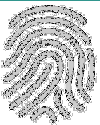
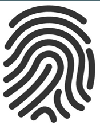
thumb bit reading error resolved

diff --git a/steg.java b/steg.java
@@ -75,13 +75,13 @@ public class steg {
                 System.out.println("Region: " + region + ", Segment: " + seg);
                 System.out.println("xs: " + xs + ", ys: " + ys + ", xe: " + xe + ", ye: " + ye);
 
-                fPArrVars.hidden = false;
+                FPHidingVars.hidden = false;
 
-                fPArrVars.init();
+                FPHidingVars.init();
 
 
-                for (int y = ys; y <= ye && !fPArrVars.hidden; y+=1) {
-                    for (int x = xs; x <= xe && !fPArrVars.hidden; x+=1) {
+                for (int y = ys; y <= ye && !FPHidingVars.hidden; y+=1) {
+                    for (int x = xs; x <= xe && !FPHidingVars.hidden; x+=1) {
                         // Retrieving contents of a pixel
                         int pixel = bufferedImage.getRGB(x, y);
                         // Creating a Color object from pixel value
@@ -96,17 +96,17 @@ public class steg {
                         // Modifying the RGB values by inserting the fprintBit
 
                         int newRedCover = hideBitInColor(redCover, fPrintPixelArray);
-                        if (fPArrVars.hidden) {
+                        if (FPHidingVars.hidden) {
                             System.out.println("End : x:" + x + " ,y: " + y);
                             break;
                         }
                         int newGreenCover = hideBitInColor(greenCover, fPrintPixelArray);
-                        if (fPArrVars.hidden) {
+                        if (FPHidingVars.hidden) {
                             System.out.println("End : x:" + x + " ,y: " + y);
                             break;
                         }
                         int newBlueCover = hideBitInColor(blueCover, fPrintPixelArray);
-                        if (fPArrVars.hidden) {
+                        if (FPHidingVars.hidden) {
                             System.out.println("End : x:" + x + " ,y: " + y);
                             break;
                         }
@@ -134,24 +134,24 @@ public class steg {
     //getting 
     private static int hideBitInColor(int coverColor, ArrayList<Boolean[][]> fPrintPixelArray){
         // finger print image current color of current pixel
-        Boolean curColorBit = fPrintPixelArray.get(fPArrVars.curfPrintPixel)[fPArrVars.curfPrintColor][fPArrVars.curfPrintBit];
+        Boolean curColorBit = fPrintPixelArray.get(FPHidingVars.curfPrintPixel)[FPHidingVars.curfPrintColor][FPHidingVars.curfPrintBit];
 
         int newColor=coverColor;     
         // incrementing the color counter
 
-        fPArrVars.curfPrintBit++;
+        FPHidingVars.curfPrintBit++;
 
-        fPArrVars.curfPrintColor += fPArrVars.curfPrintBit/8;
+        FPHidingVars.curfPrintColor += FPHidingVars.curfPrintBit/8;
 
 
-        fPArrVars.curfPrintPixel += fPArrVars.curfPrintColor / 3;
+        FPHidingVars.curfPrintPixel += FPHidingVars.curfPrintColor / 3;
 
-        fPArrVars.curfPrintColor = fPArrVars.curfPrintColor % 3;
-        fPArrVars.curfPrintBit %= 8;
+        FPHidingVars.curfPrintColor = FPHidingVars.curfPrintColor % 3;
+        FPHidingVars.curfPrintBit %= 8;
 
          // checking if the fingerprint hiding completed or not
-         if (fPArrVars.curfPrintPixel >= fPrintPixelArray.size()) {
-            fPArrVars.hidden = true;
+         if (FPHidingVars.curfPrintPixel >= fPrintPixelArray.size()) {
+            FPHidingVars.hidden = true;
             System.out.println("hidden successfully:^)");
             //break;
         }
@@ -168,7 +168,7 @@ public class steg {
     }
 
     // getting fingerprint image pixel array from the fingerprint image file
-    private static ArrayList<Boolean[][]> getPixelArray(File image) {
+    public static ArrayList<Boolean[][]> getPixelArray(File image) {
         ArrayList<Boolean[][]> pixelArray = new ArrayList<Boolean[][]>();
 
         BufferedImage bufferedImage = null;
@@ -214,18 +214,18 @@ public class steg {
 
     private static void fillColor(Boolean[] colorArr, int color) {
         String colorString =Integer.toBinaryString(color);
-        int index = 0;
+        int index = 7;
         for (int i=colorString.length()-1; i>=0; i--) {
             colorArr[index]=('1'==colorString.charAt(i));
             //System.out.println(colorArr[index]+" "+colorString.charAt(i));
-            index++;
+            index--;
         }
 
     }
 
 }
 
-class fPArrVars{
+class FPHidingVars{
     public static int curfPrintPixel = 0;
     public static int curfPrintColor = 0;
     public static int curfPrintBit = 0;

diff --git a/ExtractFromStego.java b/ExtractFromStego.java
@@ -72,9 +72,9 @@ public class ExtractFromStego {
                 System.out.println("Region: " + region + ", Segment: " + seg);
                 System.out.println("xs: " + xs + ", ys: " + ys + ", xe: " + xe + ", ye: " + ye);
 
-                // fPArrVars.hidden = false;
+                // FPExtractingVars.hidden = false;
 
-                fPArrVars.init();
+                FPExtractingVars.init();
                 // pixel array of fingerprint
                 ArrayList<Boolean[][]> fPrintPixelArray = new ArrayList<Boolean[][]>();
                 // adding initial pixel
@@ -123,27 +123,27 @@ public class ExtractFromStego {
         Boolean curColorBit = coverColor % 2 == 1;
 
         // finger print image current color of current pixel
-        fPrintPixelArray.get(fPArrVars.curfPrintPixel)[fPArrVars.curfPrintColor][fPArrVars.curfPrintBit] = curColorBit;
+        fPrintPixelArray.get(FPExtractingVars.curfPrintPixel)[FPExtractingVars.curfPrintColor][FPExtractingVars.curfPrintBit] = curColorBit;
 
         // incrementing the color counter
 
-        fPArrVars.curfPrintBit++;
+        FPExtractingVars.curfPrintBit++;
 
-        if (fPArrVars.curfPrintBit / 8 >= 1) {
-            fPArrVars.curfPrintColor += 1;
+        if (FPExtractingVars.curfPrintBit / 8 >= 1) {
+            FPExtractingVars.curfPrintColor += 1;
         }
 
-        if (fPArrVars.curfPrintColor / 3 >= 1) {
+        if (FPExtractingVars.curfPrintColor / 3 >= 1) {
             fPrintPixelArray.add(new Boolean[3][8]);
-            fPArrVars.curfPrintPixel += 1;
+            FPExtractingVars.curfPrintPixel += 1;
         }
 
-        fPArrVars.curfPrintColor %= 3;
-        fPArrVars.curfPrintBit %= 8;
+        FPExtractingVars.curfPrintColor %= 3;
+        FPExtractingVars.curfPrintBit %= 8;
 
         // checking if the fingerprint hiding completed or not
-        // if (fPArrVars.curfPrintPixel >= fPrintPixelArray.size()) {
-        // fPArrVars.hidden = true;
+        // if (FPExtractingVars.curfPrintPixel >= fPrintPixelArray.size()) {
+        // FPExtractingVars.hidden = true;
         // System.out.println("hidden successfully:^)");
         // //break;
         // }
@@ -151,7 +151,7 @@ public class ExtractFromStego {
     }
 
     // getting fingerprint image pixel array from the fingerprint image file
-    private static void getImageFromPixelArray(File image, ArrayList<Boolean[][]> pixelArray) {
+    public static void getImageFromPixelArray(File image, ArrayList<Boolean[][]> pixelArray) {
 
         int width = 100;
         int height = 125;
@@ -208,7 +208,7 @@ public class ExtractFromStego {
 
 }
 
-class fPArrVars {
+class FPExtractingVars {
     public static int curfPrintPixel = 0;
     public static int curfPrintColor = 0;
     public static int curfPrintBit = 0;

diff --git a/Test.java b/Test.java
@@ -1,3 +1,5 @@
+import java.io.File;
+import java.util.ArrayList;
 import java.util.Arrays;
 
 
@@ -6,10 +8,29 @@ public  class Test {
 
 
     public static void main(String[] args)
+
     {
+        int color=1;
+        Boolean colorArr[]=new Boolean[8];
+
+        String colorString =Integer.toBinaryString(color);
+        int index = 7;
+        for (int i=colorString.length()-1; i>=0; i--) {
+            colorArr[index]=('1'==colorString.charAt(i));
+            //System.out.println(colorArr[index]+" "+colorString.charAt(i));
+            index--;
+        }
+        System.out.println(Arrays.toString(colorArr));
+
+
+
         Boolean[][] colorsArray = new Boolean[3][8];
         
-        Boolean[] colorArr =new Boolean[]{true,false,true,false};
+        
+
+        ArrayList<Boolean[][]> pixArr=  steg.getPixelArray(new File("thumb-shorten.png"));
+
+        ExtractFromStego.getImageFromPixelArray(new File("extracted-thumb-test.png"), pixArr);
        
     }
 } 
